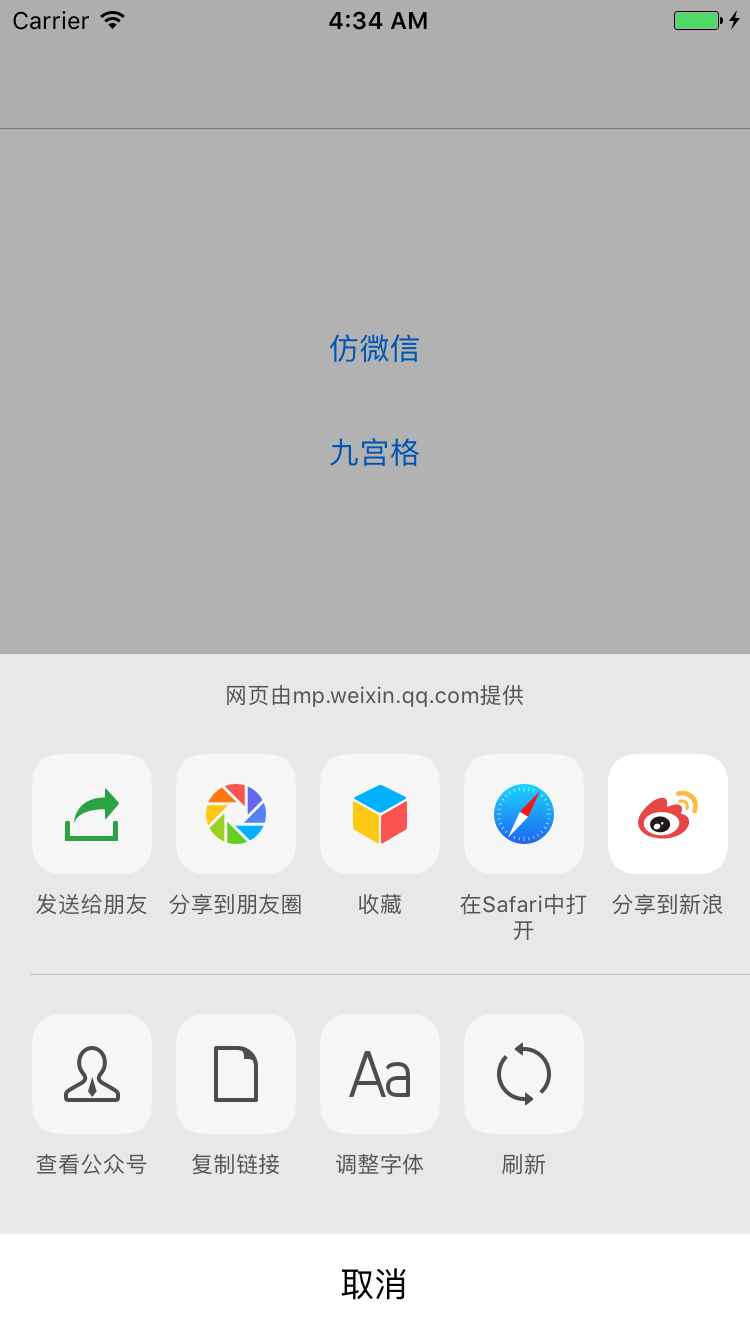
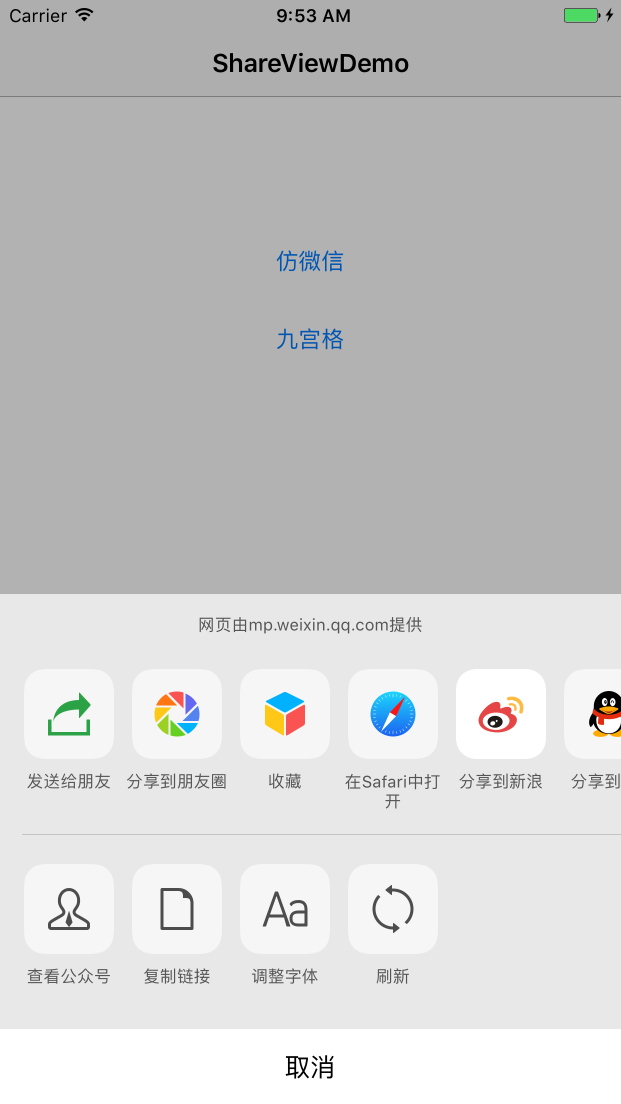
完善版本0.0.1

diff --git a/Sources/ShareView.swift b/Sources/ShareView.swift
@@ -8,11 +8,6 @@
 
 import UIKit
 
-struct ShareViewConfigure {
-    var itemSize = CGSize(width: 80, height: 80)
-
-}
-
 let kSheetCellHeight: CGFloat = 130
 let kItemSize = CGSize(width: 72, height: 100)
 
@@ -39,15 +34,13 @@ public class ShareView: UIView {
     
     public var footerView: UIView?
     
-    fileprivate var backgroundView: UIView
-    
     public var collectionViewLayout: UICollectionViewFlowLayout!
 
+    fileprivate var backgroundView: UIView
+    
     fileprivate var collectionView: UICollectionView!
     
     fileprivate var type: ShareViewType = .normal
-    /// 标题
-    public var title: String?
             
     public var animationDuration: TimeInterval
     /// 点击事件
@@ -68,10 +61,16 @@ public class ShareView: UIView {
         setupUI()
     }
     
-    public convenience init(shareItems: [[ShareItem]], clickedHandler: ShareViewClickedHandler? = nil) {
+    public convenience init(title: String? = nil, 
+                            shareItems: [[ShareItem]], 
+                            clickedHandler: ShareViewClickedHandler? = nil) {
         self.init()
+        
         self.shareItems = shareItems
         self.clickedHandler = clickedHandler
+        if let title = title {
+            headerView = defaultHeaderView(with: title)   
+        }
     }
     
     public convenience init(squareItems: [ShareItem], clickedHandler: ShareViewClickedHandler? = nil) {
@@ -100,7 +99,6 @@ public class ShareView: UIView {
         addSubview(containerView)
         
         // 默认布局
-        headerView = defaultHeaderView()      
         footerView = defaultFooterView()  
         
         collectionViewLayout = UICollectionViewFlowLayout()
@@ -123,7 +121,7 @@ public class ShareView: UIView {
     }
     
     // MARK: Header && Footer
-    func defaultHeaderView() -> UIView {
+    func defaultHeaderView(with title: String) -> UIView {
         
         let contentWidth = self.frame.width
         let headerView = UIView()
@@ -134,10 +132,9 @@ public class ShareView: UIView {
         titleLabel.textAlignment = .center
         titleLabel.font = UIFont.systemFont(ofSize: 11)
         titleLabel.frame = CGRect(x: 0, y: 13, width: contentWidth, height: 15)
-        titleLabel.text = "网页由mp.weixin.qq.com提供"
+        titleLabel.text = title
         
         headerView.addSubview(titleLabel)
-        
         return headerView
     }
     

diff --git a/Demo/CWShareViewDemo/ViewController.swift b/Demo/CWShareViewDemo/ViewController.swift
@@ -51,7 +51,10 @@ class ViewController: UIViewController {
             print(indexPath.section, indexPath.row)
         }
         
-        let shareView = ShareView(shareItems: [shareList1, shareList2], clickedHandler: clickedHandler)        
+        let title = "网页由mp.weixin.qq.com提供"
+        let shareView = ShareView(title: title,
+                                  shareItems: [shareList1, shareList2], 
+                                  clickedHandler: clickedHandler)        
         shareView.show()
     }
 
@@ -61,8 +64,6 @@ class ViewController: UIViewController {
         }
         
         let shareView = ShareView(squareItems: shareList1, clickedHandler: clickedHandler)        
-        shareView.headerView = nil
-   
         shareView.show()
     }
     override func didReceiveMemoryWarning() {

diff --git a/README.md b/README.md
@@ -1,2 +1,59 @@
 # CWShareView
-分享View
+
+> 仿写微信分享功能
+
+## 目录 Contents
+
+* [环境 Requirements](#环境-requirements)
+* [功能 Feature](#功能-feature)
+* [预览 Preview](#预览-preview)
+* [使用 Usage](#使用-usage)
+* [许可 License](#许可-license)
+
+
+## 环境 Requirements
+
+* iOS 8.0+
+* Xcode 8.3+
+* Swift3.1
+
+## 功能 Feature
+- [x] 模仿微信ShareView
+- [x] 模仿九宫格分享View
+- [ ] 更好的自定义
+- [ ] 完善注释，更好的readme 
+
+## 预览 Preview
+
+![CWShareViewDemo_1](https://github.com/cwwise/CWShareView/blob/master/Preview/CWShareViewDemo_1.png)
+![CWShareViewDemo_2](https://github.com/cwwise/CWShareView/blob/master/Preview/CWShareViewDemo_2.png)
+
+
+## 使用 Usage
+
+* 导入方法：
+ 
+  * 方法一（推荐使用）：[CocoaPods](https://cocoapods.org/)：`pod 'CWShareView'`
+
+* 在相应位置导入头文件：`import CWShareView`
+
+* 调用下列任意方法即可：
+
+```swift
+    let clickedHandler = { (shareView: ShareView, indexPath: IndexPath) in
+            print(indexPath.section, indexPath.row)
+        }
+        
+    let title = "网页由mp.weixin.qq.com提供"
+    let shareView = ShareView(title: title,
+                              shareItems: [shareList1, shareList2], 
+                              clickedHandler: clickedHandler)        
+    shareView.show()
+```
+  
+
+## 许可 License
+
+CWShareView is released under the [MIT License](https://github.com/cwwise/CWShareView/blob/master/LICENSE).
+
+
